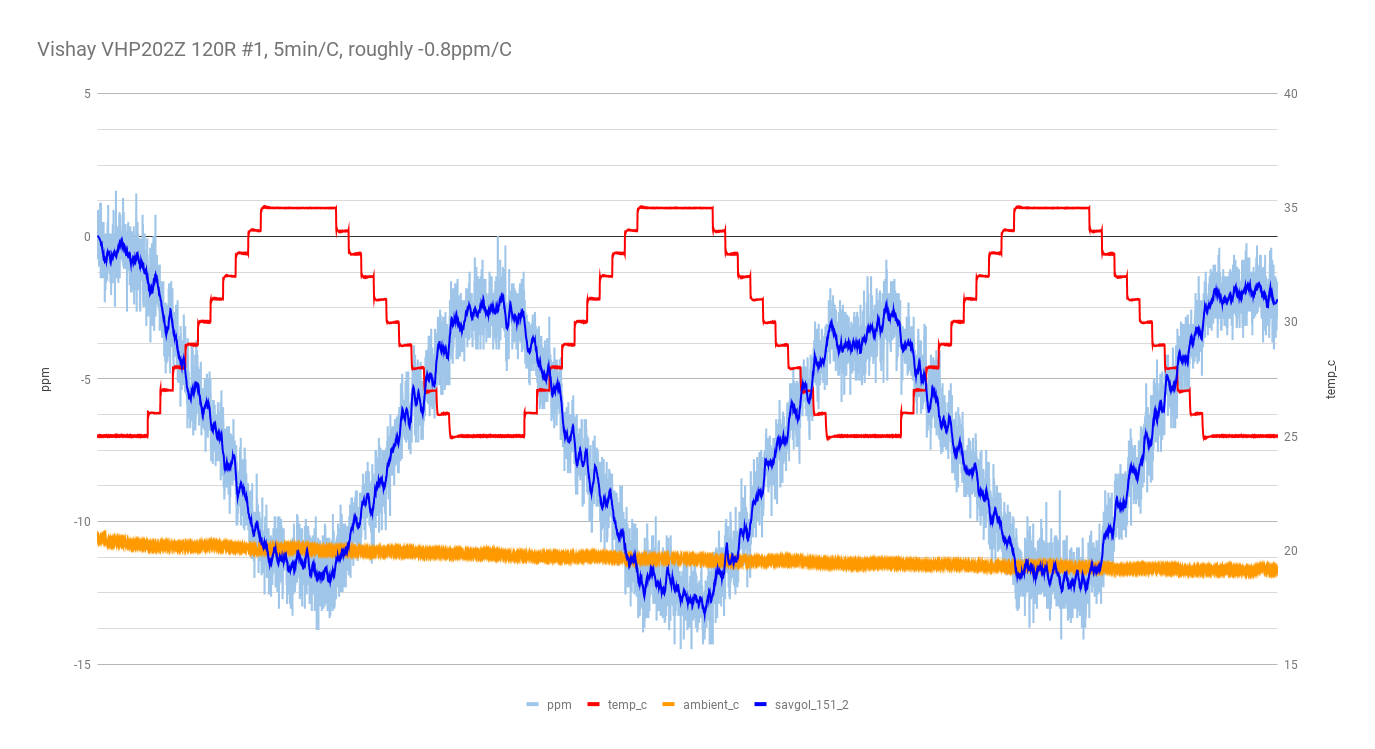
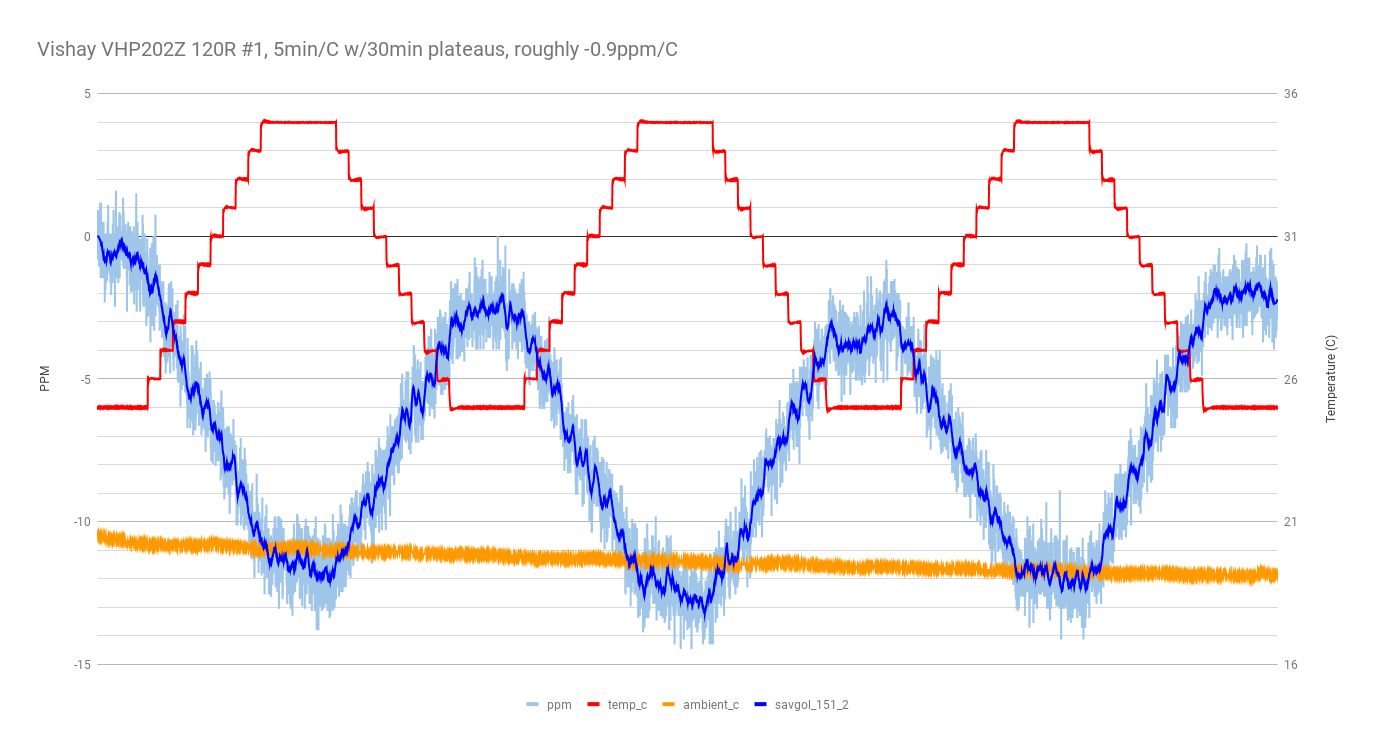
charts

diff --git a/20180205-r-tempcos/README.md b/20180205-r-tempcos/README.md
@@ -37,12 +37,15 @@ I had anticipated that the 120R result would be much noisier (it is very low in 
 
 The signal does appear to be wandering, moreso than with the 70K resistors.  Again, I'm not sure if this is the meter wandering, or if this represents actual hystersis of the resistor.  Performing a multi-day run with perhaps 10 ramps up and down would be useful.
 
+About -0.9ppm/C.
+
 ## run 4
 
 VHP202Z 120R #2
 
 ![](run4-VHP202Z-120R-2/chart.png)
 
+About -1.0ppm/C.
 
 ## run 5
 
@@ -75,6 +78,8 @@ oops, after 127 steps the program got stuck, because I used an int8_t.  drat.
 VHP202Z 120R #3
 
 ![](run7-VHP202Z-120R-3/chart.png)
+
+Perhaps as good as -0.35ppm/C.  Significantly better than 120R #1 and #2.
 
 
 ## run 8
